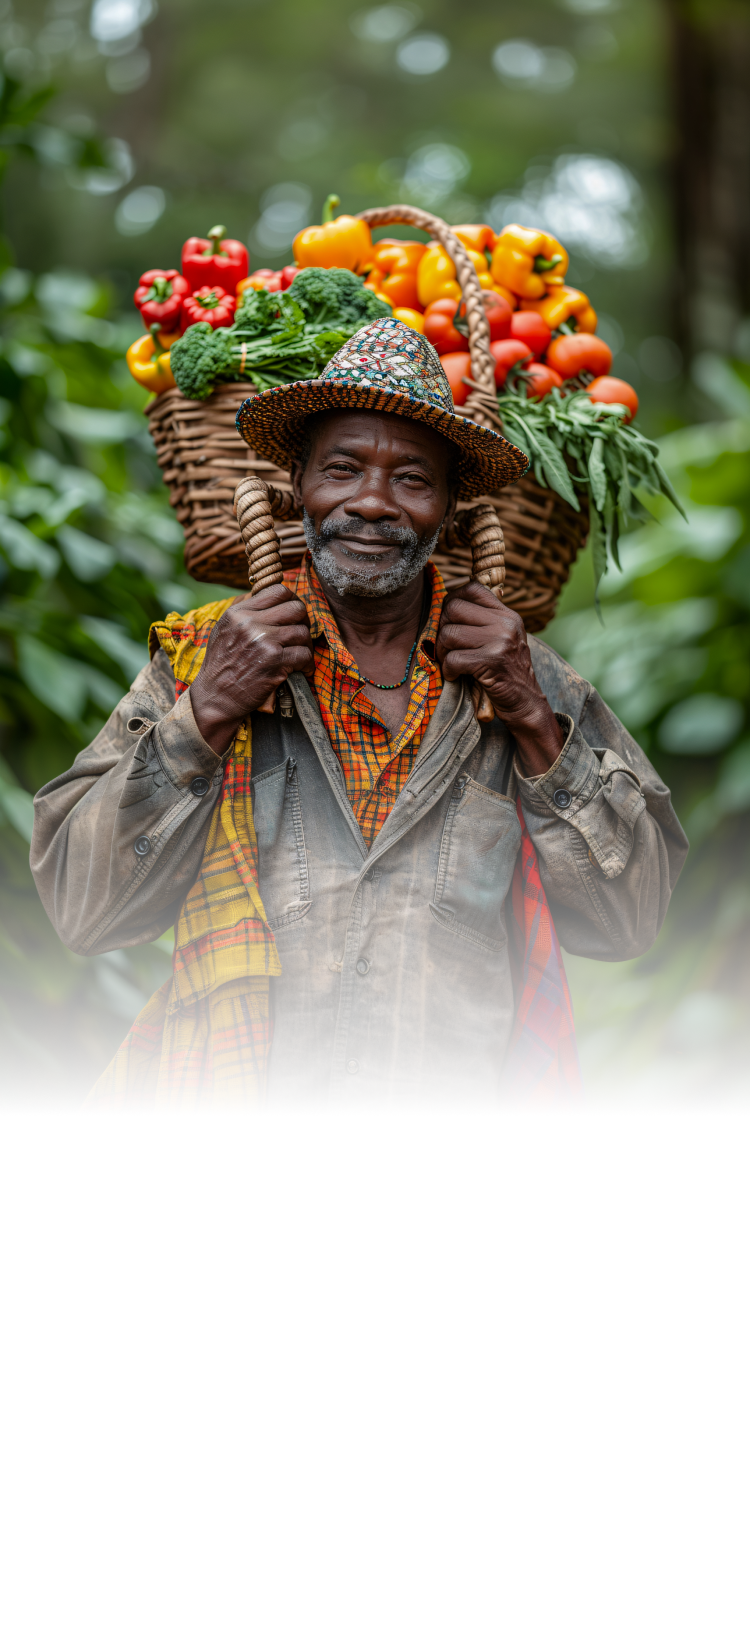
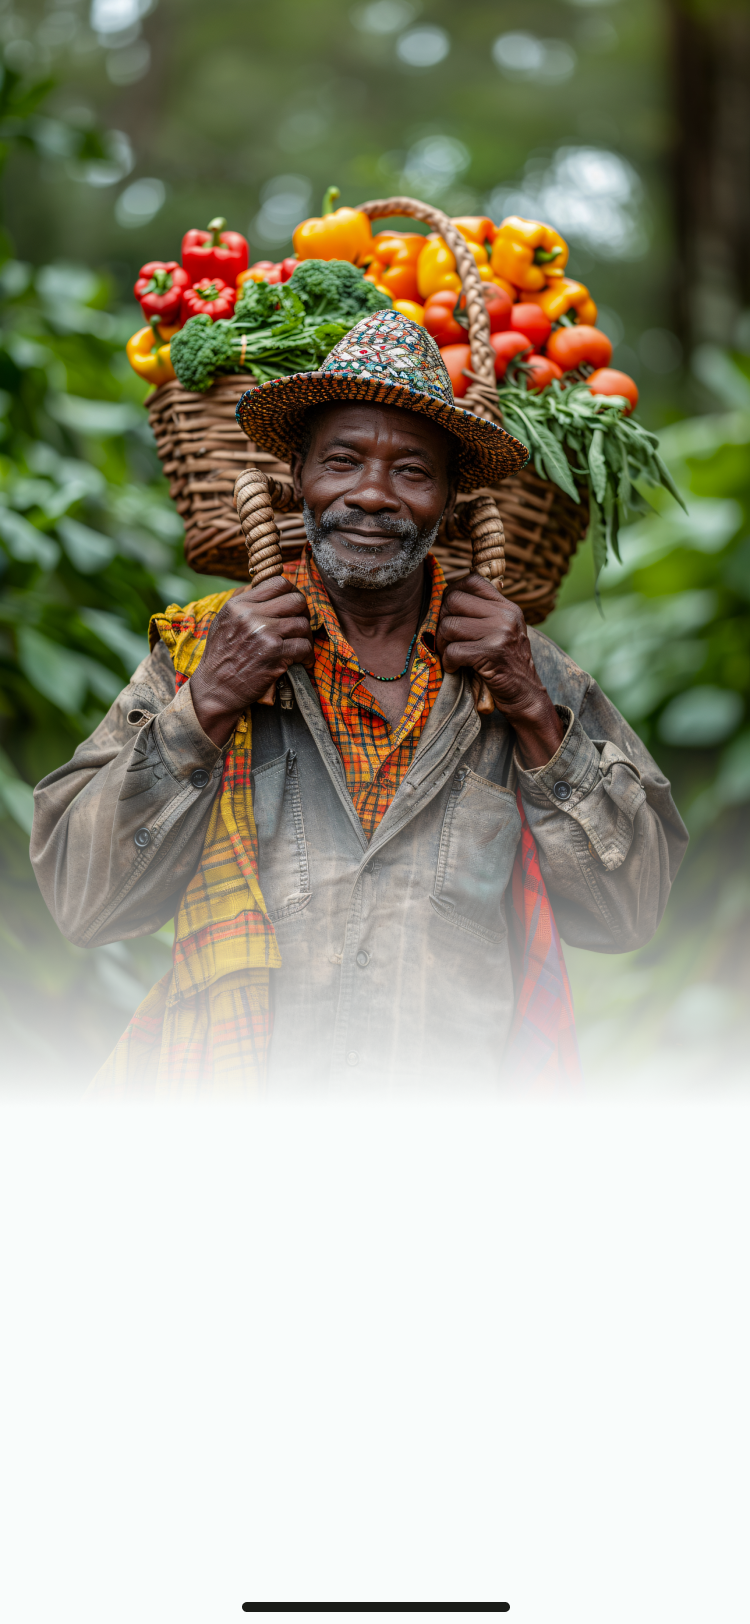
add: added onboarding screens

diff --git a/apps/screens/OnboardingScreen.js b/apps/screens/OnboardingScreen.js
@@ -1,154 +1,63 @@
 import React from "react";
-import {
-  Button,
-  ImageBackground,
-  ScrollView,
-  StyleSheet,
-  Text,
-  View,
-} from "react-native";
-import Constants from "expo-constants";
-import neutral from "../config/neutralColor";
-import primary from "../config/primaryColor";
-// import { useFonts } from "expo-font";
-// import header from "../config/header";
-// import AppLoading from "expo-app-loading";
+import { FlatList, StyleSheet } from "react-native";
+import OnboardingItem from "../components/OnboardingItem";
+
+const screens = [
+  {
+    id: 1,
+    image: require("../assets/01.png"),
+    titleOne: "Limitless Market",
+    titleTwo: "Access",
+    captionOne: "Market your produce, Engage with buyers, and",
+    captionTwo: "complete your transaction directly through chat",
+  },
+
+  {
+    id: 2,
+    image: require("../assets/2.png"),
+    titleOne: "Diagnose  and",
+    titleTwo: "Manage Crops",
+    captionOne: "Uploading images to detect plant diseases and",
+    captionTwo: "receive expert recommendations instantly",
+  },
+
+  {
+    id: 3,
+    image: require("../assets/3.png"),
+    titleOne: "Share Your",
+    titleTwo: "Farming Journey",
+    captionOne: "Post updates about your daily farming activities",
+    captionTwo: "and connect with other farmers",
+  },
+];
 
 function OnboardingScreen() {
-  // const [fontsLoaded] = useFonts({
-  //   rHat: require("../assets/fonts/RedHatText-VariableFont_wght.ttf"),
-  //   italic: require("../assets/fonts/RedHatText-Italic-VariableFont_wght.ttf"),
-  // });
-
-  // if (!fontsLoaded) {
-  //   return <AppLoading></AppLoading>;
-  // }
-
   return (
-    <ImageBackground
-      source={require("../assets/01.png")}
-      style={styles.imageBackground}
-    >
-      <Text style={styles.brandName}>AgroXlink</Text>
-
-      <View style={styles.container}>
-        <View style={styles.titleContainer}>
-          <Text style={styles.title}>Limitless Market</Text>
-          <Text style={styles.title}>Access</Text>
-        </View>
-        <View style={styles.captionContainer}>
-          <Text style={styles.caption}>
-            Market your produce, Engage with buyers
-          </Text>
-          <Text style={styles.caption}>
-            Complete your transaction directly through chat
-          </Text>
-        </View>
-        <View style={styles.page}>
-          <View style={styles.circle}></View>
-          <View style={styles.circle}></View>
-          <View style={styles.circle}></View>
-        </View>
-        <View style={styles.enter}>
-          <View style={styles.button}>
-            <Text style={styles.getStarted}>Let's Get Started</Text>
-          </View>
-          <Text style={styles.caption}>
-            Already have an account?{" "}
-            <Text style={styles.colorText}>Sign In</Text>
-          </Text>
-        </View>
-      </View>
-    </ImageBackground>
+    <FlatList
+      data={screens}
+      keyExtractor={(screen) => screen.id.toString()}
+      renderItem={({ item }) => (
+        <OnboardingItem
+          id={item.id}
+          image={item.image}
+          titleOne={item.titleOne}
+          titleTwo={item.titleTwo}
+          captionOne={item.captionOne}
+          captionTwo={item.captionTwo}
+        />
+      )}
+      horizontal
+      pagingEnabled
+      bounces={false}
+      style={styles.flatList}
+    ></FlatList>
   );
 }
 
 const styles = StyleSheet.create({
-  bottom: {
-    backgroundColor: primary.p100,
-  },
-
-  brandName: {
-    color: neutral.white,
-    position: "absolute",
-    top: Constants.statusBarHeight + 20,
-  },
-
-  button: {
-    backgroundColor: primary.p900,
+  flatList: {
     width: "100%",
-    height: 50,
-    borderRadius: 10,
-    alignItems: "center",
-    justifyContent: "center",
-    marginBottom: 10,
-  },
-
-  caption: { color: neutral.n700 },
-
-  captionContainer: {
-    alignItems: "center",
-    marginBottom: 20,
-  },
-
-  circle: {
-    height: 8,
-    width: 8,
-    borderRadius: 4,
-    backgroundColor: primary.p900,
-    marginVertical: 4,
-  },
-
-  container: {
-    height: "41%",
-    marginBottom: "44",
-    width: "100%",
-    alignItems: "center",
-  },
-
-  colorText: {
-    color: primary.p900,
-  },
-
-  enter: {
-    width: "90%",
-    alignItems: "center",
-    color: neutral.n700,
-  },
-
-  imageBackground: {
-    flex: 1,
-    alignItems: "center",
-    justifyContent: "flex-end",
-  },
-
-  getStarted: {
-    color: neutral.white,
-  },
-
-  gradient: {
-    width: "100%",
-    height: "30%",
-  },
-
-  title: {
-    color: primary.p900,
-    fontWeight: "bold",
-    fontSize: 32,
-  },
-
-  titleContainer: {
-    alignItems: "center",
-    marginBottom: 16,
-  },
-
-  page: {
-    width: 48,
-    height: 8,
-    flexDirection: "row",
-    justifyContent: "space-between",
-    marginBottom: 24,
+    height: "100%",
   },
 });
-
 export default OnboardingScreen;

diff --git a/apps/components/OnboardingItem.js b/apps/components/OnboardingItem.js
@@ -1,9 +1,161 @@
-import React from 'react'
+import React from "react";
+import {
+  ImageBackground,
+  StyleSheet,
+  Text,
+  TouchableOpacity,
+  useWindowDimensions,
+  View,
+} from "react-native";
+import Constants from "expo-constants";
+import neutral from "../config/neutralColor";
+import primary from "../config/primaryColor";
 
-function OnboardingItem() {
+function OnboardingItem({
+  id,
+  image,
+  titleOne,
+  titleTwo,
+  captionOne,
+  captionTwo,
+}) {
+  const { width } = useWindowDimensions();
+
   return (
-    <div>OnboardingItem</div>
-  )
+    <ImageBackground source={image} style={[styles.imageBackground, { width }]}>
+      <Text style={styles.brandName}>AgroXlink</Text>
+
+      <View style={styles.container}>
+        <View style={styles.titleContainer}>
+          <Text style={styles.title}>{titleOne}</Text>
+          <Text style={styles.title}>{titleTwo}</Text>
+        </View>
+        <View style={styles.captionContainer}>
+          <Text style={styles.caption}>{captionOne}</Text>
+          <Text style={styles.caption}>{captionTwo}</Text>
+        </View>
+        <View style={styles.page}>
+          <View
+            style={[
+              styles.circle,
+              { backgroundColor: id === 1 ? primary.p900 : primary.p100 },
+            ]}
+          ></View>
+          <View
+            style={[
+              styles.circle,
+              { backgroundColor: id === 2 ? primary.p900 : primary.p100 },
+            ]}
+          ></View>
+          <View
+            style={[
+              styles.circle,
+              { backgroundColor: id === 3 ? primary.p900 : primary.p100 },
+            ]}
+          ></View>
+        </View>
+        <View style={styles.enter}>
+          <TouchableOpacity
+            style={styles.button}
+            onPress={console.log("Started!")}
+          >
+            <Text style={styles.getStarted}>Let's Get Started</Text>
+          </TouchableOpacity>
+          <Text style={styles.caption}>
+            Already have an account?{" "}
+            <Text style={styles.colorText}>Sign In</Text>
+          </Text>
+        </View>
+      </View>
+    </ImageBackground>
+  );
 }
 
-export default OnboardingItem
+const styles = StyleSheet.create({
+  bottom: {
+    backgroundColor: primary.p100,
+  },
+
+  brandName: {
+    color: neutral.white,
+    position: "absolute",
+    top: Constants.statusBarHeight + 20,
+  },
+
+  button: {
+    backgroundColor: primary.p900,
+    width: "100%",
+    height: 50,
+    borderRadius: 10,
+    alignItems: "center",
+    justifyContent: "center",
+    marginBottom: 10,
+  },
+
+  caption: { color: neutral.n700 },
+
+  captionContainer: {
+    alignItems: "center",
+    marginBottom: 20,
+  },
+
+  circle: {
+    height: 8,
+    width: 8,
+    borderRadius: 4,
+    marginVertical: 4,
+  },
+
+  container: {
+    height: "41%",
+    marginBottom: "44",
+    width: "100%",
+    alignItems: "center",
+  },
+
+  colorText: {
+    color: primary.p900,
+  },
+
+  enter: {
+    width: "90%",
+    alignItems: "center",
+    color: neutral.n700,
+  },
+
+  imageBackground: {
+    flex: 1,
+    alignItems: "center",
+    justifyContent: "flex-end",
+  },
+
+  getStarted: {
+    color: neutral.white,
+  },
+
+  gradient: {
+    width: "100%",
+    height: "30%",
+  },
+
+  title: {
+    color: primary.p900,
+    fontWeight: "bold",
+    fontSize: 32,
+  },
+
+  titleContainer: {
+    alignItems: "center",
+    marginBottom: 16,
+  },
+
+  page: {
+    width: 48,
+    height: 8,
+    flexDirection: "row",
+    justifyContent: "space-between",
+    marginBottom: 24,
+  },
+});
+
+export default OnboardingItem;

diff --git a/apps/config/neutralColor.js b/apps/config/neutralColor.js
@@ -1,4 +1,5 @@
 const neutral = {
+  background: "#f9fcfb",
   n950: "#1a1c18",
   n900: "#31332f",
   n800: "#484946",
